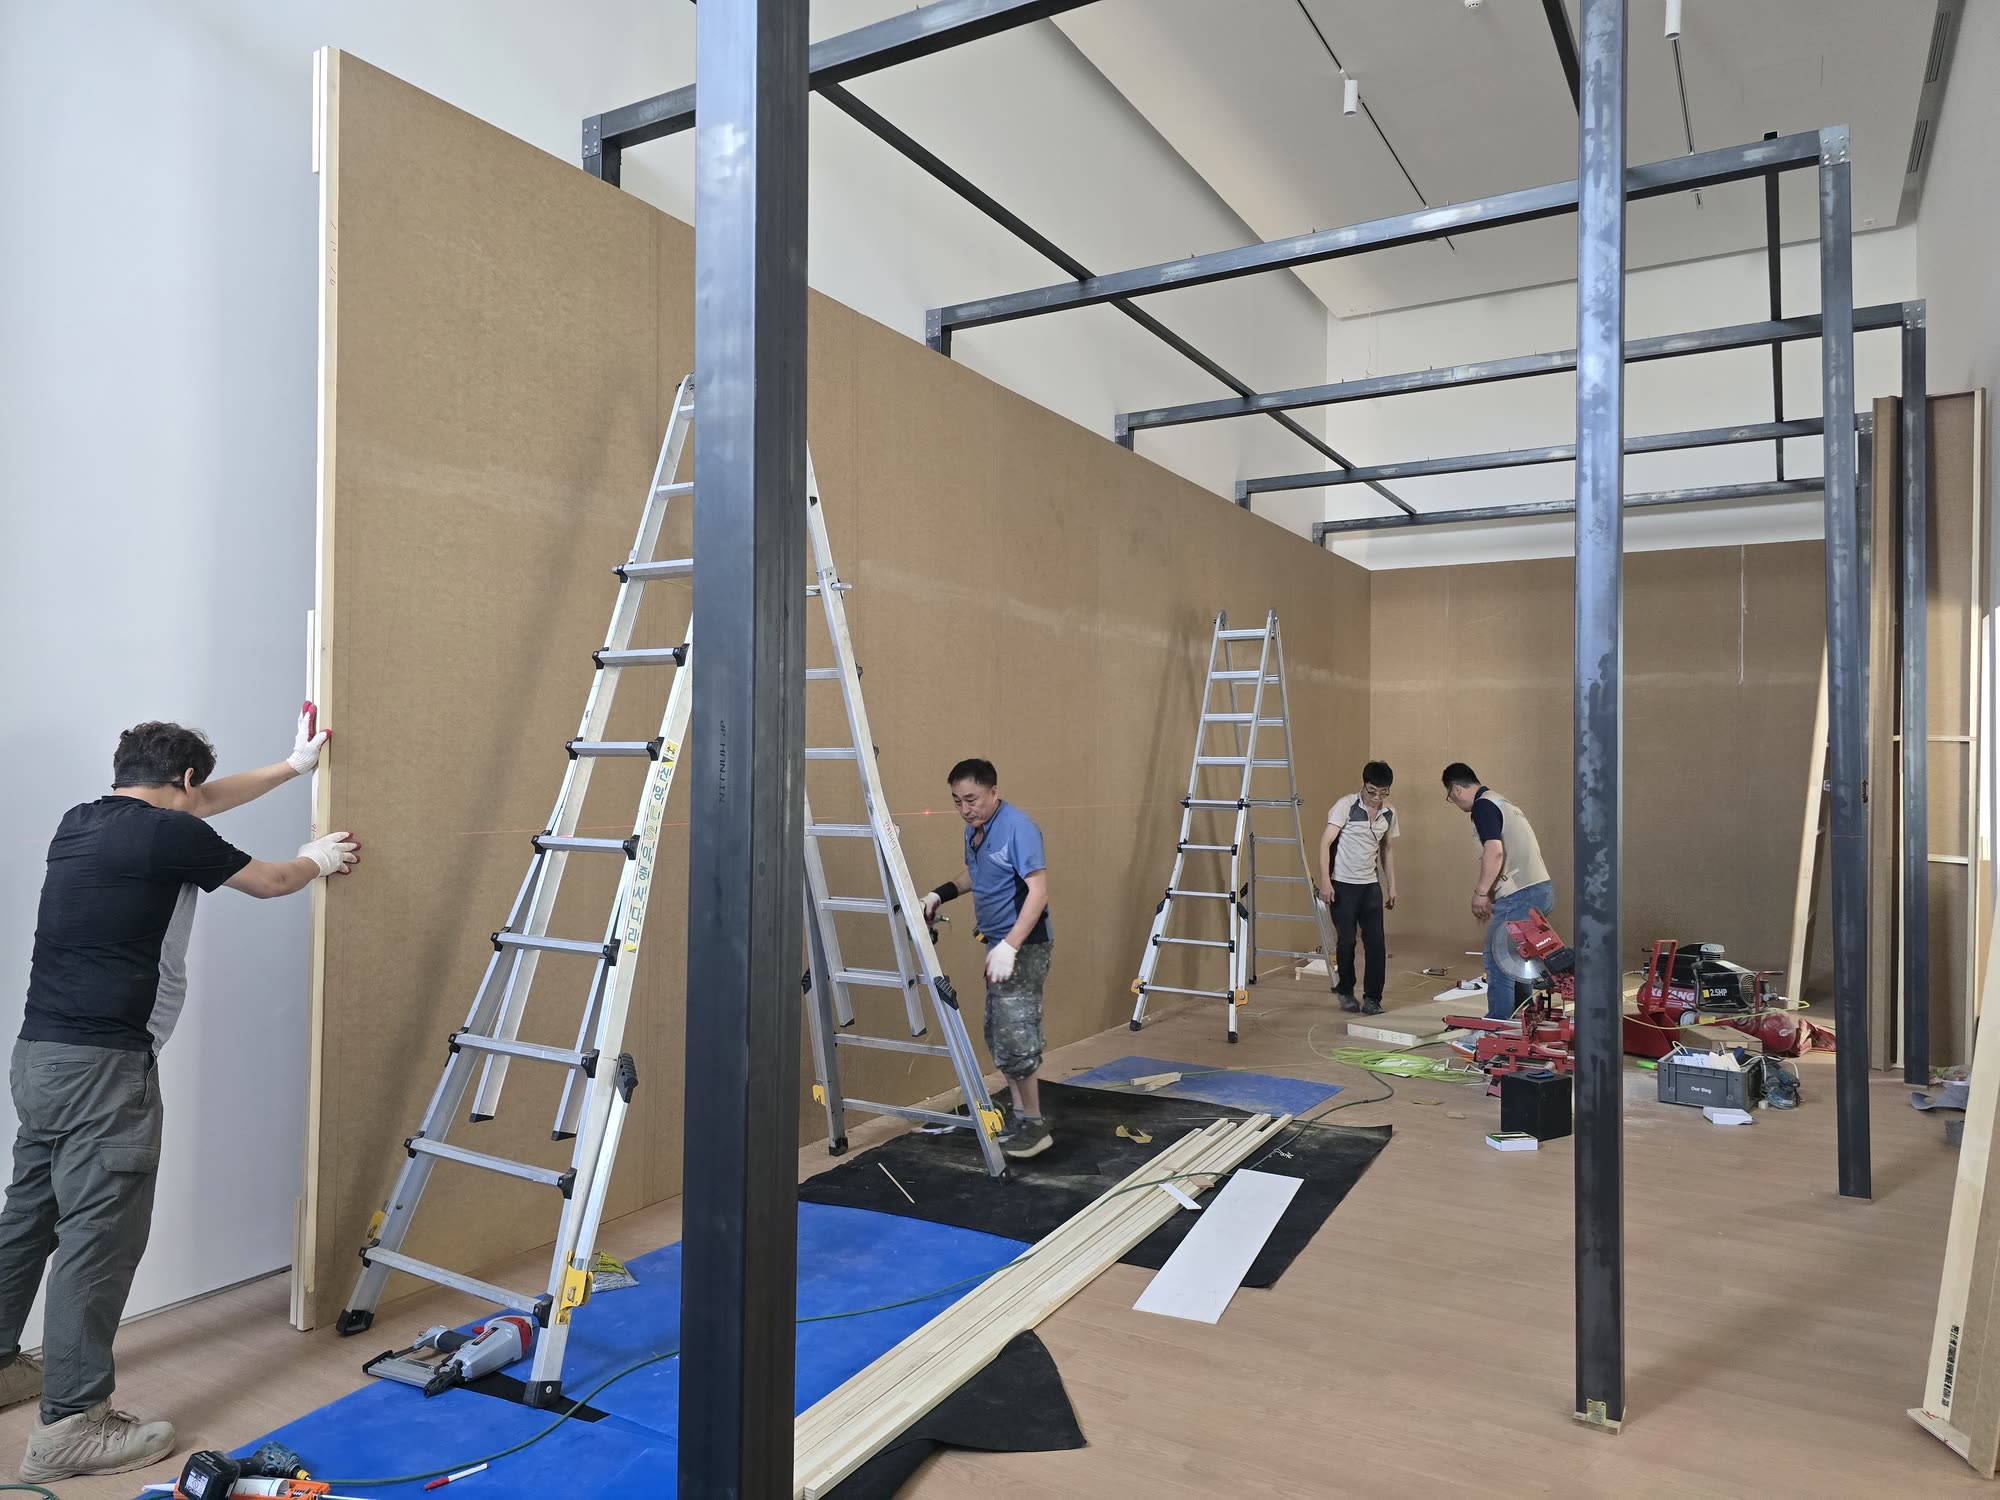
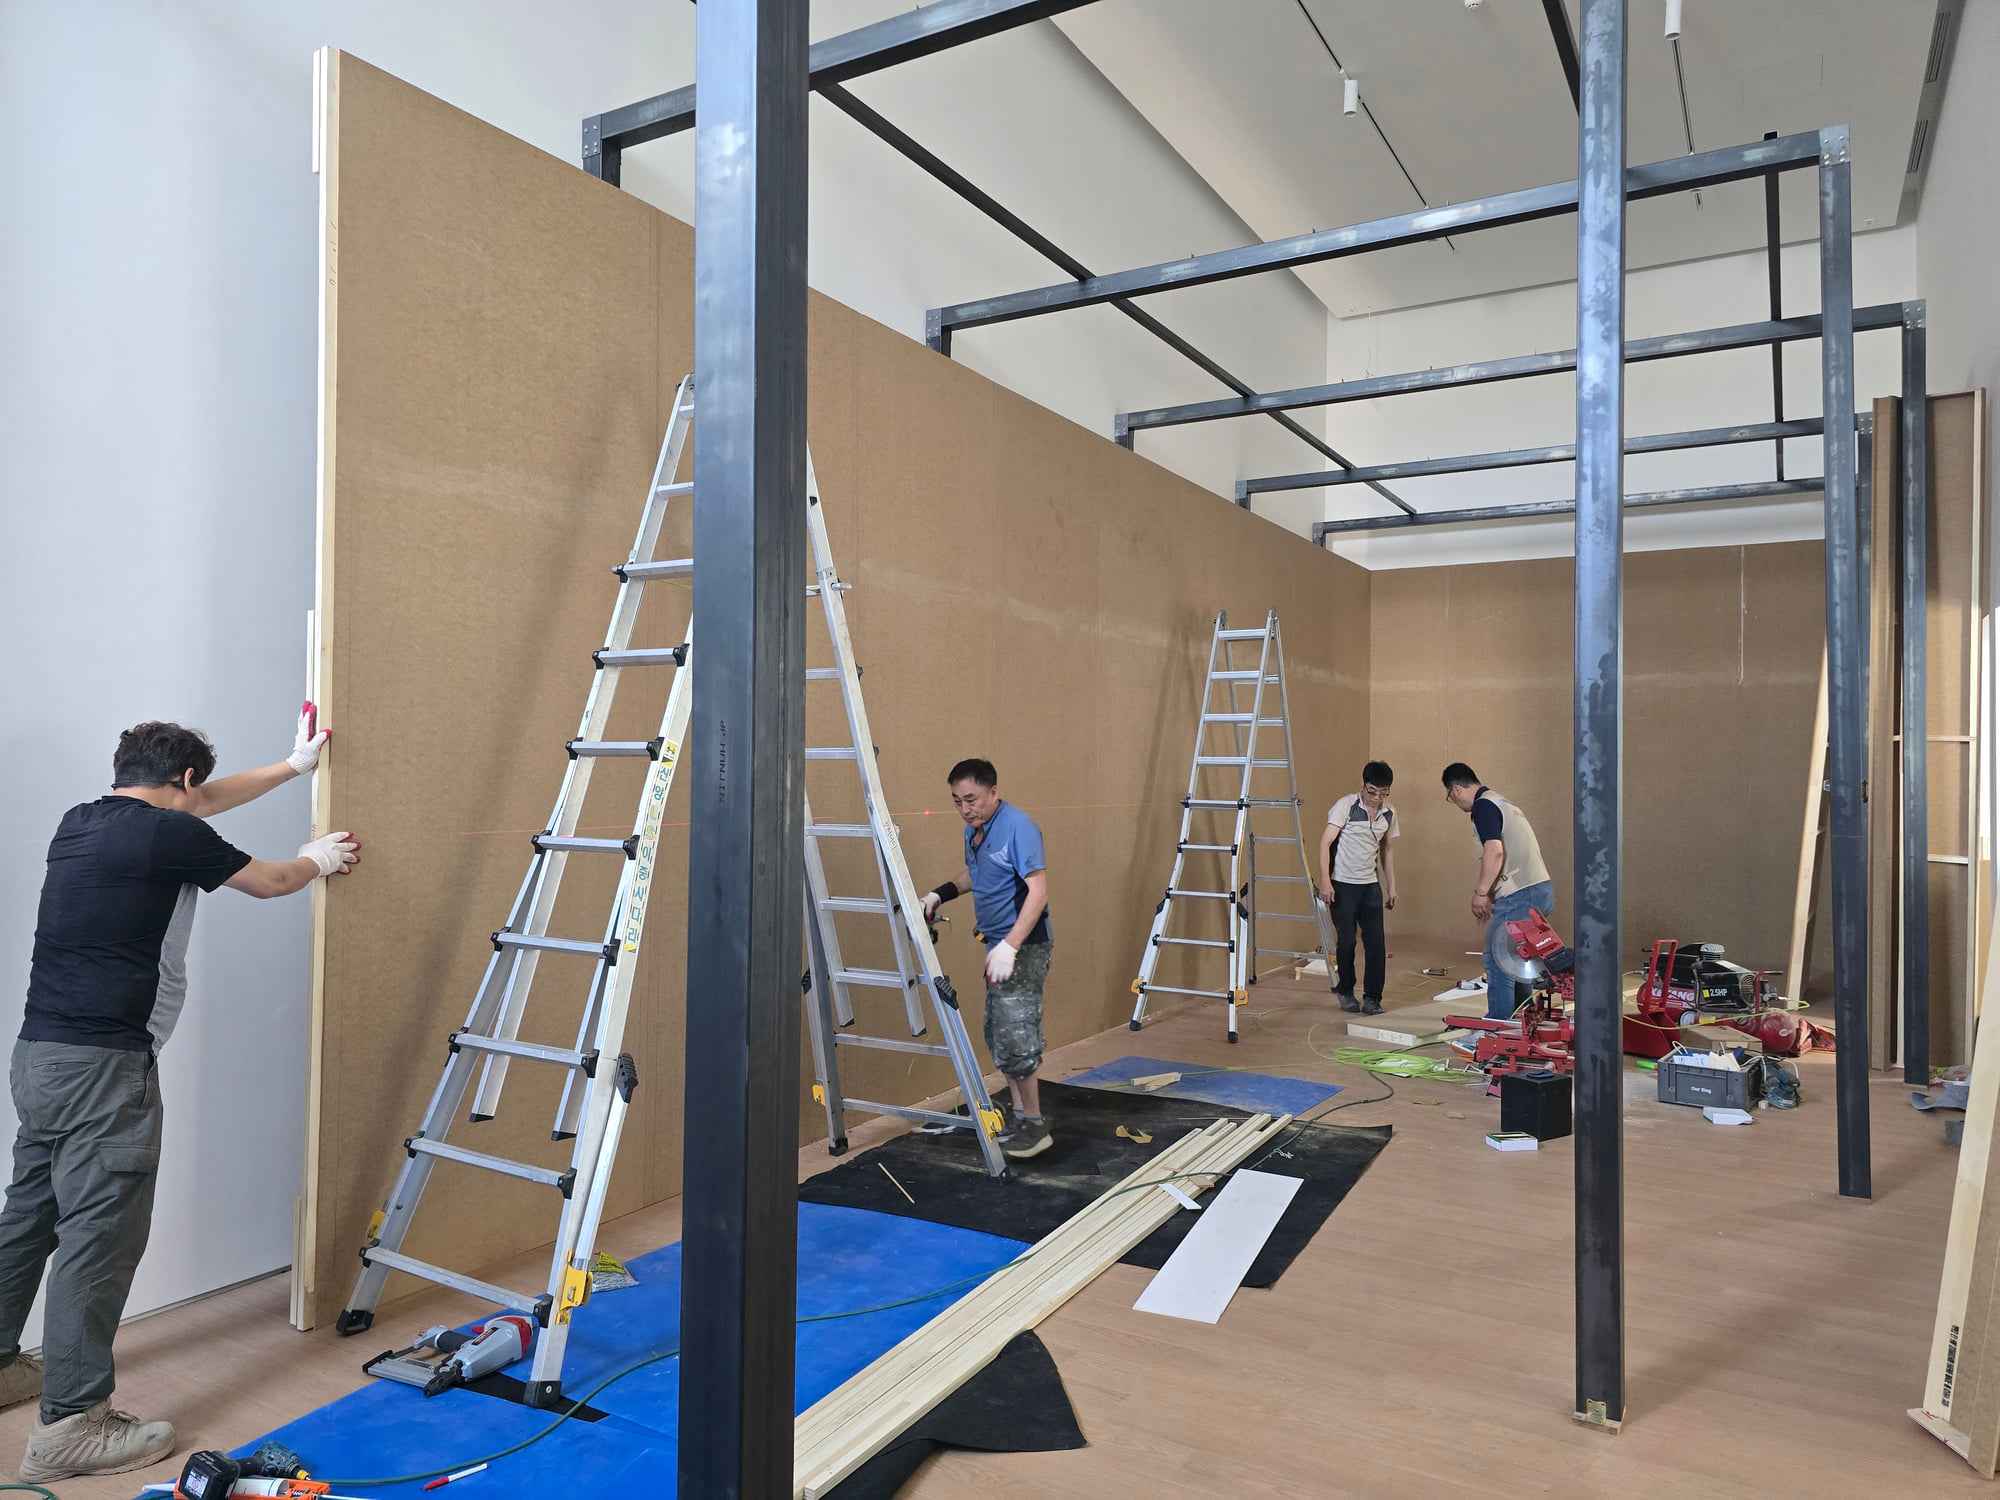
Tea the Han: replace with new 10-photo set; re-export Gaudí photos with correct sRGB color
Source photos were Adobe RGB / Display P3; convert to sRGB with embedded
profile so colors render as intended on the web.

Changed region(s): [[0.124, 0.8893, 0.341, 1.0], [0.372, 0.828, 0.527, 0.9507]]

diff --git a/js/projects-data.js b/js/projects-data.js
@@ -5,12 +5,12 @@
 window.PROJECTS = [
   {
     id: 'gaudi-back-to-the-origins',
-    thumbnail: 'images/projects/gaudi-back-to-the-origins.jpg?v=20261008',
+    thumbnail: 'images/projects/gaudi-back-to-the-origins.jpg?v=20261008b',
     images: [
-      'images/projects/gaudi-back-to-the-origins-2.jpg?v=20261008',
-      'images/projects/gaudi-back-to-the-origins-3.jpg?v=20261008',
-      'images/projects/gaudi-back-to-the-origins-4.jpg?v=20261008',
-      'images/projects/gaudi-back-to-the-origins-5.jpg?v=20261008'
+      'images/projects/gaudi-back-to-the-origins-2.jpg?v=20261008b',
+      'images/projects/gaudi-back-to-the-origins-3.jpg?v=20261008b',
+      'images/projects/gaudi-back-to-the-origins-4.jpg?v=20261008b',
+      'images/projects/gaudi-back-to-the-origins-5.jpg?v=20261008b'
     ],
     name: 'Gaudí: Back to the Origins',
     nameKo: '가우디 서거 100주년 기념 공식 월드 투어 서울 전시 기획·공간디자인·운영',
@@ -129,14 +129,17 @@ window.PROJECTS = [
   },
   {
     id: 'tea-the-han',
-    thumbnail: 'images/projects/tea-the-han.jpg',
+    thumbnail: 'images/projects/tea-the-han.jpg?v=20261008',
     images: [
-      'images/projects/tea-the-han-2.jpg',
-      'images/projects/tea-the-han-3.jpg',
-      'images/projects/tea-the-han-4.jpg',
-      'images/projects/tea-the-han-5.jpg',
-      'images/projects/tea-the-han-6.jpg',
-      'images/projects/tea-the-han-7.jpg'
+      'images/projects/tea-the-han-2.jpg?v=20261008',
+      'images/projects/tea-the-han-3.jpg?v=20261008',
+      'images/projects/tea-the-han-4.jpg?v=20261008',
+      'images/projects/tea-the-han-5.jpg?v=20261008',
+      'images/projects/tea-the-han-6.jpg?v=20261008',
+      'images/projects/tea-the-han-7.jpg?v=20261008',
+      'images/projects/tea-the-han-8.jpg?v=20261008',
+      'images/projects/tea-the-han-9.jpg?v=20261008',
+      'images/projects/tea-the-han-10.jpg?v=20261008'
     ],
     name: 'Tea the Han',
     nameKo: '북촌 TEA THE HAN 공간브랜딩 및 공간경험&환경디자인',

diff --git a/index.html b/index.html
@@ -124,7 +124,7 @@
 
 </main>
 
-<script src="js/projects-data.js?v=20261008"></script>
+<script src="js/projects-data.js?v=20261008b"></script>
 <script src="js/main.js?v=4"></script>
 <script>
   /* Contact form — Formspree AJAX submit */

diff --git a/project.html b/project.html
@@ -117,7 +117,7 @@
 
 
 <script src="js/main.js?v=4"></script>
-<script src="js/projects-data.js?v=20261008"></script>
+<script src="js/projects-data.js?v=20261008b"></script>
 <script src="js/project-detail.js"></script>
 </body>
 </html>

diff --git a/projects.html b/projects.html
@@ -68,7 +68,7 @@
 </main>
 
 <script src="js/main.js?v=4"></script>
-<script src="js/projects-data.js?v=20261008"></script>
+<script src="js/projects-data.js?v=20261008b"></script>
 <script src="js/projects.js"></script>
 </body>
 </html>
